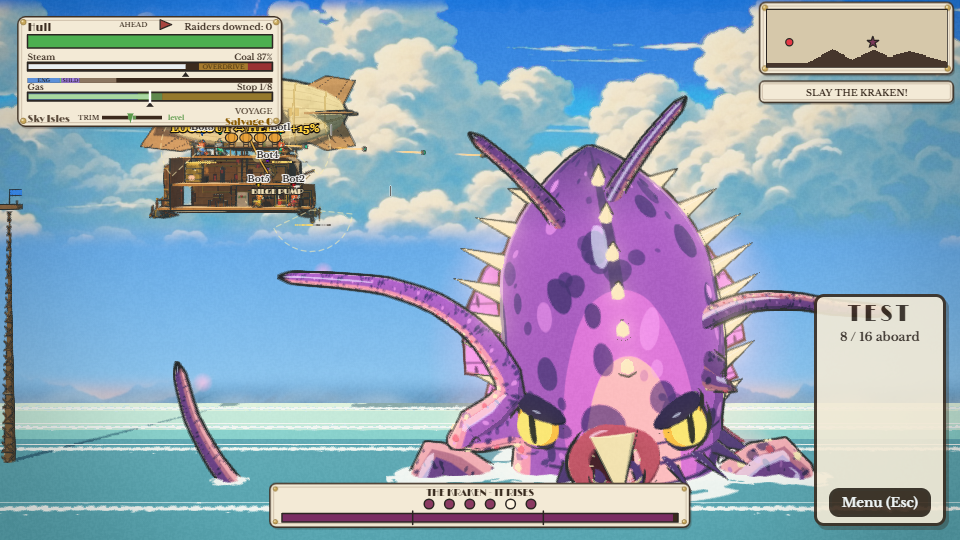
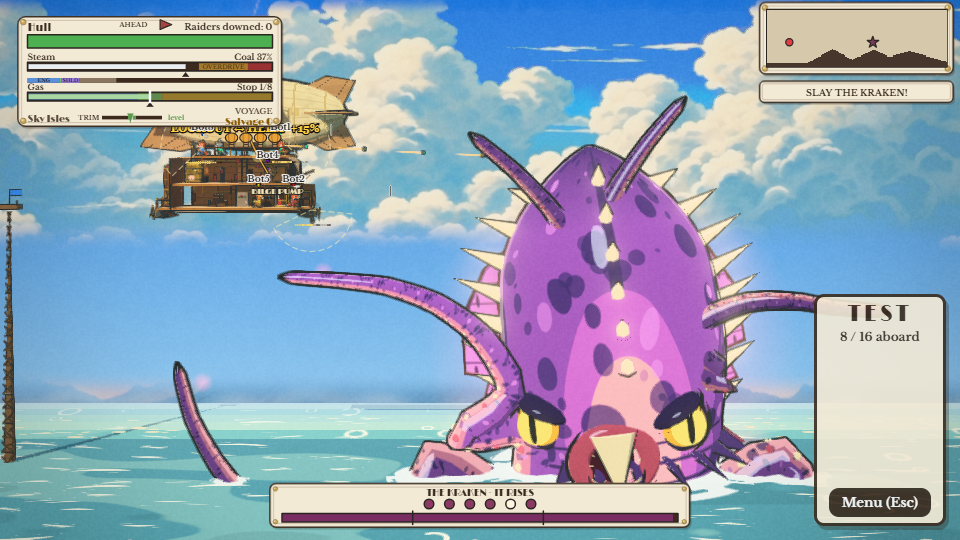
A2: water v2 - stamped foam arcs and rings from a sea-foam atlas (own direction and speed, screen-constant ink edge), two-tone crest, sun glitter stipple, stepped horizon haze into the painted sky; kraken and storm fixtures re-captured

diff --git a/public/modules/view3d/water.js b/public/modules/view3d/water.js
@@ -2,53 +2,144 @@
 //   - one big plane at the sea level (it is opaque, so it is also what hides the Kraken's segments below the water line, like the old slab did);
 //   - TWO colour steps by depth: beyond a world-fixed line (z = -split) the water is the lighter shallow colour, nearer it is the deep one;
 //   - a cheap fake REFLECTION (Medium and High): the mirrored sky gradient, painted in steps (zenith colour near, horizon colour toward the far edge, a mist band at the edge);
-//   - FOAM as stepped bands: lanes lying on the water, world-fixed in z, each a strip of the trim sheet's foam row (scalloped, alpha cut in two steps) sliding along x at a CONSTANT speed per lane
-//     (a linear scroll of the texture coordinate: no sine, no vertex waves, the plane is flat);
+//   - A2 (Wind Waker sea): STAMPED FOAM, not lanes: two hashed grids of world cells, each cell holding (config.LOOK3D.<env>.water.density) one arc, ring, dash pair or broken ring from the trim sheet's
+//     sea-foam atlas row, sliding along its OWN direction at its own constant speed (never on a straight lane), growing and shrinking away in steps, with a thin ink edge of a constant screen width;
+//     a TWO-TONE CREST (a static value-noise texture, thresholded into lighter patches and, near the viewer, darker ones, sliding at one constant slow speed); a stepped sun GLITTER stipple in the far
+//     third; a stepped HORIZON HAZE that melts the sea into the painted sky's horizon colour (no hard line). All in this one shader: no sine, no vertex waves, the plane is flat, nothing extra is drawn;
 //   - a SHORELINE ring: where the rock meets the water (the map's solid rows at the sea level) a pale shallow band and a foam ribbon hug the rock's foot;
 //   - SPLASH hooks for the VFX pass (WP4): water.splashAt(x, y, size [, z]) puts a ring decal on the surface (two rings growing at a constant speed, faded in steps at 8 per second).
-// The surface is lit like the other toon things (the Kraken's shadow falls on it); the foam is painted (unlit, dimmed with the darkness). Water is exempt from the rim light.
-import { THREE, gradientMap, look } from './style.js';
-import { getTrimSheet, uvRect } from './textures.js';
+// The surface is lit like the other toon things (the Kraken's and the ship's shadows fall on it, foam included); the haze and the glitter are painted (unlit). Water is exempt from the rim light.
+import { THREE, gradientMap, look, fx } from './style.js';
+import { getTrimSheet, uvRect, TRIM, SEA_FOAM } from './textures.js';
 import { config } from '../../config.js';
 import { Z_FRONT_OPEN, Z_FRONT_CAVE } from './terrain.js';
 
 const Z_FAR = -1500; // where the water ends in the distance (the horizon: the same place the old slab ended)
 const SPLIT = 520; // the colour step: farther than this behind the ship plane = shallow
-const LANE = 520; // foam lane width (world z)
 const MAX_SPLASH = 24, SPLASH_LIFE = 1.0;
+// A2: the stamps (the foam atlas row of textures.js): the world size of one cell's box at scale 1 (the cell's texels times a scale), and the cell's size in texels
+const STAMP_SCALE = { seaFoam0: 0.7, seaFoam1: 1.8, seaFoam2: 0.8, seaFoam3: 1.8 };
 
 const FRAG_HEAD = `
   varying vec3 vWPos;
-  uniform float uTime, uSplit, uZFar, uSpeed, uLevel, uRefl, uLane;
-  uniform vec3 uDeep, uShallow, uFoamCol, uSkyTop, uHor, uShoreTint;
-  uniform sampler2D uFoamTex; uniform vec4 uFoamRect;
+  uniform float uTime, uSplit, uZFar, uSpeed, uLevel, uRefl, uDens, uCrestAmt, uDarkAmt, uGlit, uHazeAmt, uInkPx;
+  uniform vec3 uDeep, uShallow, uFoamCol, uSkyTop, uHor, uShoreTint, uInk, uCrest, uGlitCol, uHazeCol;
+  uniform float uUntone, uExposure;
+  vec3 untoneNeutral( vec3 c ) { float x = min( c.r, min( c.g, c.b ) ); float xp = x >= 0.04 ? x + 0.04 : ( 1.0 - sqrt( max( 0.0, 1.0 - 25.0 * x ) ) ) / 12.5; return ( c + ( xp - x ) ) / max( uExposure, 0.0001 ); } // (as style.js paintedPlane: the haze is painted like the sky it melts into)
+  uniform sampler2D uFoamTex, uNoiseTex; uniform vec4 uFoamRect;
+  uniform vec4 uSF[4]; // the stamp cells in the atlas: u0 v0 u1 v1
+  uniform vec4 uSFB[4]; // xy = the cell's box in world units (scale 1), zw = the cell in texels
   float h11( float p ) { p = fract( p * 0.1031 ); p *= p + 33.33; p *= p + p; return fract( p ); }
+  // ONE grid of foam stamps, fixed to the world. Every cell holds (with chance uDens) one stamp: an arc, a ring, a pair of dashes or a broken ring, that slides along its own direction at its own
+  // CONSTANT speed (a linear function of time, wrapping inside its own cell), grows in two steps, and shrinks away in two steps before it wraps. Returns ( fill, ink line ). The atlas alpha is a ramp
+  // (0.5 on the shape's edge), so the fill is alpha > threshold and the ink is the thin band just under it, about uInkPx screen pixels wide at any distance.
+  vec2 seaStamp( vec2 wp, vec2 gdx, vec2 gdy, vec2 cs, float seed, vec2 scl, float hz ) {
+    vec2 id = floor( wp / cs );
+    float n = id.x * 53.0 + id.y * 197.0 + seed;
+    if ( h11( n ) > uDens ) return vec2( 0.0 );
+    float h1 = h11( n + 11.3 ), h2 = h11( n + 23.7 ), h3 = h11( n + 37.1 ), h4 = h11( n + 51.9 ), h5 = h11( n + 67.3 );
+    float hk = scl.x < 0.8 ? pow( h1, 1.6 ) : h1; // (the small grid holds fewer rings)
+    int k = hk < 0.42 ? 0 : ( hk < 0.68 ? 2 : ( hk < 0.83 ? 1 : 3 ) );
+    vec4 R = uSF[ k ], B = uSFB[ k ];
+    vec2 box = B.xy * scl;
+    float travel = cs.x * 0.34, rate = uSpeed * ( 0.3 + 0.9 * h2 );
+    float ph = fract( h4 + uTime * rate / travel );
+    vec2 dir = normalize( vec2( ( h3 < 0.5 ? -1.0 : 1.0 ) * ( 0.75 + 0.25 * h5 ), ( h5 - 0.5 ) * 0.8 ) );
+    vec2 ctr = ( id + 0.5 + ( vec2( h2, h5 ) - 0.5 ) * 0.1 ) * cs + dir * ( ph - 0.5 ) * travel;
+    float ang = ( k == 0 || k == 2 ) ? ( h4 - 0.5 ) * 0.36 : 0.0;
+    float ca = cos( ang ), sa = sin( ang );
+    mat2 M = mat2( ca, -sa, sa, ca );
+    vec2 fl = vec2( fract( h1 * 13.1 ) < 0.5 ? -1.0 : 1.0, fract( h3 * 17.7 ) < 0.5 ? -1.0 : 1.0 );
+    vec2 uv = ( M * ( wp - ctr ) * fl ) / box + 0.5;
+    if ( uv.x < 0.0 || uv.x > 1.0 || uv.y < 0.0 || uv.y > 1.0 ) return vec2( 0.0 );
+    vec2 sz = vec2( R.z - R.x, R.w - R.y );
+    vec2 cgx = ( M * gdx * fl ) / box, cgy = ( M * gdy * fl ) / box; // (the cell's uv per pixel)
+    float a = textureGrad( uFoamTex, vec2( mix( R.x, R.z, uv.x ), mix( R.y, R.w, uv.y ) ), cgx * sz, cgy * sz ).a;
+    float e = min( ph, 1.0 - ph ) * 2.0; // 0 at both ends of the slide, 1 in the middle: the stamp grows in two steps and shrinks in two steps (the threshold rises, so the shape thins away)
+    float th = 0.5 + 0.8 * ( 1.0 - step( 0.1, e ) ) + 0.17 * ( 1.0 - step( 0.28, e ) ) + 0.12 * step( 0.78, hz ) + 0.12 * step( 0.9, hz );
+    float tp = max( length( cgx * B.zw ), length( cgy * B.zw ) ); // texels per screen pixel
+    float aw = max( 0.5 * tp / ( 24.0 + tp ), 0.015 ); // about one screen pixel in alpha units: the edges are anti-aliased
+    float kk = clamp( uInkPx * tp / ( 24.0 + tp ), 0.03, 0.4 );
+    float inkOn = 1.0 - smoothstep( 2.5, 6.0, tp ); // the ink thins out far away (a distant dash is just white)
+    return vec2( smoothstep( th - aw, th + aw, a ), smoothstep( th - kk - aw, th - kk + aw, a ) * inkOn ); // (the second value covers the fill too: the fill is drawn over it)
+  }
+  // the sun glitter: short pale dashes in a stipple, static in the world, all sliding at one constant slow speed; densest in a band in the far third
+  float seaGlit( vec2 wp, float hz, float nz ) {
+    vec2 cs = vec2( 120.0, 60.0 );
+    vec2 p = vec2( wp.x - uTime * 5.0, wp.y );
+    vec2 id = floor( p / cs ), f = ( p / cs - id - 0.5 ) * cs;
+    float n = id.x * 61.0 + id.y * 173.0 + 5.0;
+    float dens = floor( clamp( 1.0 - abs( hz - 0.5 ) / 0.3, 0.0, 1.0 ) * 3.0 ) / 3.0 * uGlit * smoothstep( 0.35, 0.5, nz );
+    if ( h11( n ) > dens ) return 0.0;
+    float len = 20.0 + 30.0 * h11( n + 7.0 );
+    vec2 j = ( vec2( h11( n + 3.0 ), h11( n + 9.0 ) ) - 0.5 ) * vec2( cs.x - 2.0 * len - 6.0, cs.y - 34.0 );
+    vec2 q = abs( f - j );
+    return step( q.x, len ) * step( q.y, 16.0 );
+  }
 `;
 const FRAG_COLOR = `
   float wZf = -vWPos.z;
   float wDepth = step( uSplit, wZf );
   vec3 wCol = mix( uDeep, uShallow, wDepth );
   float wHz = clamp( wZf / uZFar, 0.0, 1.0 );
-  float wMir = step( 0.5, wHz ) * 0.22 + step( 0.84, wHz ) * 0.3;
+  float wMir = step( 0.5, wHz ) * 0.22;
   wCol = mix( wCol, mix( uSkyTop, uHor, step( 0.5, wHz ) ), uRefl * ( 0.12 + wMir ) );
+  // the two-tone crest: a static value-noise texture (R = the light patches, G = the dark ones), fixed to the world, all sliding at one constant slow speed. The edges are cut hard (two flat
+  // tones) but anti-aliased by the noise's own screen derivative, so nothing crawls when the camera moves.
+  vec2 wNP = vec2( ( vWPos.x - uTime * uSpeed * 0.3 ) / 9000.0, vWPos.z / 3600.0 );
+  vec2 wN = texture2D( uNoiseTex, wNP ).rg;
+  float wNa = max( fwidth( wN.x ) * 0.9, 0.012 ), wNb = max( fwidth( wN.y ) * 0.9, 0.012 );
+  float wLight = smoothstep( 0.6 - wNa, 0.6 + wNa, wN.x ) * ( 1.0 - step( 0.9, wHz ) );
+  float wDark = smoothstep( 0.6 - wNb, 0.6 + wNb, wN.y ) * smoothstep( 250.0, 420.0, vWPos.z ) * ( 1.0 - wHz );
+  wCol = mix( wCol, uCrest, wLight * uCrestAmt );
+  wCol *= 1.0 - wDark * uDarkAmt;
+  // the horizon haze: three or four flat steps toward the sky's horizon colour (the sea no longer ends on a hard line)
+  float wHk = uHazeAmt * ( 0.16 * step( 0.64, wHz ) + 0.2 * step( 0.76, wHz ) + 0.24 * step( 0.88, wHz ) + 0.25 * step( 0.95, wHz ) );
+  // the foam stamps: a big grid and a small one, each in the sea's own grid of world cells; far stamps are stretched in z (the sea is foreshortened there) so they keep their look
+  vec2 wGdx = dFdx( vWPos.xz ), wGdy = dFdy( vWPos.xz );
+  vec2 wScl = vec2( 1.0, 1.0 + 0.4 * wHz );
+  vec2 wSA = seaStamp( vWPos.xz, wGdx, wGdy, vec2( 700.0, 270.0 ), 3.0, wScl, wHz );
+  vec2 wSB = seaStamp( vWPos.xz, wGdx, wGdy, vec2( 440.0, 230.0 ), 91.0, wScl * 0.55, wHz );
+  float wFoam = max( wSA.x, wSB.x ) * ( 1.0 - wHk );
+  float wInk = max( wSA.y, wSB.y ) * ( 1.0 - wHk );
+  wCol = mix( wCol, uInk, wInk );
+  wCol = mix( wCol, uFoamCol, wFoam );
   diffuseColor.rgb = wCol;
-  // foam lanes: lane = a strip of the foam row, sliding at a constant speed (linear in time)
-  float wLi = floor( vWPos.z / uLane ), wLf = vWPos.z / uLane - wLi;
-  float wSeed = h11( wLi + 17.0 );
-  float wV = ( wLf - ( 0.1 + 0.25 * wSeed ) ) / 0.42;
-  float wU = ( vWPos.x - uTime * uSpeed * ( 0.55 + 0.9 * h11( wLi + 3.0 ) ) ) / 4096.0 + wSeed * 7.0;
-  vec2 wRaw = vec2( wU, wV );
-  vec2 wGx = dFdx( wRaw ) * vec2( uFoamRect.z - uFoamRect.x, uFoamRect.y - uFoamRect.w ), wGy = dFdy( wRaw ) * vec2( uFoamRect.z - uFoamRect.x, uFoamRect.y - uFoamRect.w );
-  vec2 wUv = vec2( mix( uFoamRect.x, uFoamRect.z, fract( wU ) ), mix( uFoamRect.w, uFoamRect.y, clamp( wV, 0.03, 0.97 ) ) );
-  float wA = textureGrad( uFoamTex, wUv, wGx, wGy ).a;
-  float wOn = step( 0.0, wV ) * step( wV, 1.0 ) * step( 0.28, wSeed ) * step( wZf, uZFar - 80.0 );
-  float wFoam = step( 0.55, wA ) * wOn, wFoam2 = ( step( 0.16, wA ) - step( 0.55, wA ) ) * wOn;
+  float wGl = seaGlit( vWPos.xz, wHz, wN.x ) * ( 1.0 - wHk );
+  vec3 wHc = mix( uHazeCol, mix( uHor, uHazeCol, 0.5 ), step( 0.88, wHz ) ); // (the paler steps first, the sky's own horizon colour at the very end)
 `;
 const FRAG_TAIL = `
-  outgoingLight = mix( outgoingLight, uShoreTint * ( 0.55 + 0.45 * uLevel ), wFoam2 * 0.8 );
-  outgoingLight = mix( outgoingLight, uFoamCol * uLevel, wFoam );
+  outgoingLight = mix( outgoingLight, uGlitCol * uLevel, wGl );
+  outgoingLight = mix( outgoingLight, mix( wHc, untoneNeutral( wHc ), uUntone ), wHk ); // (the haze is painted, unlit, like the sky behind it)
   #include <opaque_fragment>
 `;
+
+// A2: the crest pattern's texture. 128 x 128, tiles, built once with a fixed seed (no Math.random): R and G are two independent smooth value-noise fields (a coarse lattice plus a finer one),
+// 0..1 around 0.5. The shader thresholds R for the light patches and G for the dark ones.
+function noiseTexture() {
+  const N = 128, d = new Uint8Array(N * N * 4);
+  const lattice = (L, seed) => { const g = new Float32Array(L * L); let s = seed >>> 0; for (let i = 0; i < g.length; i++) { s = (Math.imul(s, 1664525) + 1013904223) >>> 0; g[i] = s / 4294967296; } return g; };
+  const val = (g, L, x, y) => {
+    const xi = Math.floor(x), yi = Math.floor(y), fx = x - xi, fy = y - yi, sx = fx * fx * (3 - 2 * fx), sy = fy * fy * (3 - 2 * fy);
+    const x0 = ((xi % L) + L) % L, x1 = (x0 + 1) % L, y0 = ((yi % L) + L) % L, y1 = (y0 + 1) % L;
+    const a = g[y0 * L + x0], b = g[y0 * L + x1], c = g[y1 * L + x0], e = g[y1 * L + x1];
+    return a + (b - a) * sx + (c - a) * sy + (a - b - c + e) * sx * sy;
+  };
+  const fields = [[lattice(8, 7), lattice(16, 8)], [lattice(8, 21), lattice(16, 22)]];
+  for (let y = 0; y < N; y++) for (let x = 0; x < N; x++) {
+    for (let c = 0; c < 2; c++) {
+      const v = (val(fields[c][0], 8, (x / N) * 8, (y / N) * 8) * 0.68 + val(fields[c][1], 16, (x / N) * 16, (y / N) * 16) * 0.32);
+      d[(y * N + x) * 4 + c] = Math.max(0, Math.min(255, Math.round(v * 255)));
+    }
+    d[(y * N + x) * 4 + 3] = 255;
+  }
+  const t = new THREE.DataTexture(d, N, N, THREE.RGBAFormat);
+  t.wrapS = t.wrapT = THREE.RepeatWrapping;
+  t.magFilter = THREE.LinearFilter; t.minFilter = THREE.LinearMipmapLinearFilter; t.generateMipmaps = true;
+  t.needsUpdate = true;
+  t.name = 'seaNoise';
+  return t;
+}
 
 export function createWater(scene) {
   const group = new THREE.Group();
@@ -57,12 +148,19 @@ export function createWater(scene) {
 
   const sheet = getTrimSheet();
   const fr = uvRect('foam', 1);
+  const sf = SEA_FOAM.map((n) => uvRect(n, 1)), sfB = SEA_FOAM.map((n) => new THREE.Vector4(TRIM[n].w * STAMP_SCALE[n], TRIM[n].h * STAMP_SCALE[n], TRIM[n].w, TRIM[n].h));
   const U = {
-    uTime: { value: 0 }, uSplit: { value: SPLIT }, uZFar: { value: -Z_FAR }, uSpeed: { value: 26 }, uLevel: { value: 1 }, uRefl: { value: 1 }, uLane: { value: LANE },
+    uTime: { value: 0 }, uSplit: { value: SPLIT }, uZFar: { value: -Z_FAR }, uSpeed: { value: 26 }, uLevel: { value: 1 }, uRefl: { value: 1 },
     uDeep: { value: new THREE.Color('#5b93a6') }, uShallow: { value: new THREE.Color('#80bcc4') }, uFoamCol: { value: new THREE.Color('#f4fbfa') }, uShoreTint: { value: new THREE.Color('#b6e0e2') },
     uSkyTop: { value: new THREE.Color('#4d93b8') }, uHor: { value: new THREE.Color('#e9f4ee') },
     uFoamTex: { value: sheet.texture }, uFoamRect: { value: new THREE.Vector4(fr.u0, fr.v0, fr.u1, fr.v1) },
+    // A2: the stamps, the crest tones, the glitter and the haze (setRig fills them from config.LOOK3D.<env>.water)
+    uSF: { value: sf.map((r) => new THREE.Vector4(r.u0, r.v0, r.u1, r.v1)) }, uSFB: { value: sfB }, uNoiseTex: { value: noiseTexture() },
+    uDens: { value: 0.7 }, uCrestAmt: { value: 0.34 }, uDarkAmt: { value: 0.14 }, uGlit: { value: 0.4 }, uHazeAmt: { value: 1 }, uInkPx: { value: 1.8 },
+    uInk: { value: new THREE.Color('#1d4756') }, uCrest: { value: new THREE.Color('#a4d3d4') }, uGlitCol: { value: new THREE.Color('#fff4cc') }, uHazeCol: { value: new THREE.Color('#73b3e9') },
+    uUntone: fx.uUntone, uExposure: fx.uExposure,
   };
+  const hazeBase = new THREE.Color('#73b3e9'), skyTint = new THREE.Color('#ffffff');
 
   // ---- the surface ----------------------------------------------------------------------------------------------------------------------------------------------------------
   const wMat = new THREE.MeshToonMaterial({ color: '#6f9fae', gradientMap });
@@ -208,10 +306,17 @@ export function createWater(scene) {
     const w = rig.water || {};
     U.uDeep.value.set(w.deep || '#5b93a6'); U.uShallow.value.set(w.shallow || '#80bcc4'); U.uFoamCol.value.set(w.foam || '#f4fbfa'); U.uSpeed.value = Number.isFinite(w.speed) ? w.speed : 26;
     U.uShoreTint.value.set(w.shallow || '#80bcc4').lerp(new THREE.Color('#ffffff'), 0.35);
+    const num = (v, d) => (Number.isFinite(v) ? v : d);
+    U.uDens.value = Math.max(0, Math.min(1, num(w.density, 0.7))); U.uCrestAmt.value = Math.max(0, Math.min(1, num(w.crestAmt, 0.34))); U.uDarkAmt.value = Math.max(0, Math.min(0.6, num(w.darkAmt, 0.14)));
+    U.uGlit.value = Math.max(0, Math.min(1, num(w.glitter, 0.4))); U.uHazeAmt.value = Math.max(0, Math.min(1, num(w.haze, 1))); U.uInkPx.value = Math.max(0.5, Math.min(4, num(w.inkPx, 1.8)));
+    U.uInk.value.set(w.ink || '#1d4756'); U.uCrest.value.set(w.crest || '#a4d3d4'); U.uGlitCol.value.set(w.glitterCol || '#fff4cc');
+    hazeBase.set(w.hazeCol || '#73b3e9'); U.uHazeCol.value.copy(hazeBase).multiply(skyTint);
     const E = (config.ENVIRONMENTS && config.ENVIRONMENTS[envId]) || {};
     const sky = Array.isArray(E.sky) ? E.sky : null, hex = (s, d) => (typeof s === 'string' ? (s[0] === '#' ? s : '#' + s) : d);
     U.uSkyTop.value.set(hex(sky && sky[0], '#4d93b8')); U.uHor.value.set(hex(sky && sky[sky.length - 1], '#e9f4ee'));
   };
+  // the time of day's tint of the painted sky (world.js setTod): the haze that melts the sea into that sky takes it too
+  T.setSkyTint = (c) => { try { skyTint.set(c || '#ffffff'); U.uHazeCol.value.copy(hazeBase).multiply(skyTint); } catch { /* (a bad colour: the tint stays) */ } };
   T.setLevel = (night) => { U.uLevel.value = 1 - 0.7 * Math.max(0, Math.min(1, night)); }; // (the painted foam dims in the dark)
   T.setTier = (tier) => { U.uRefl.value = tier && tier.name === 'low' ? 0 : 1; };
   // every frame. seaY = the sea level in the game's y (NaN = no sea). cam = the THREE camera.
@@ -231,6 +336,6 @@ export function createWater(scene) {
     sMat.uniforms.uY.value = y + 1.2;
     buildShore(map, seaY);
   };
-  T.dispose = () => { surface.geometry.dispose(); shore.geometry.dispose(); sGeo.dispose(); wMat.dispose(); shoreMat.dispose(); sMat.dispose(); };
+  T.dispose = () => { surface.geometry.dispose(); shore.geometry.dispose(); sGeo.dispose(); wMat.dispose(); shoreMat.dispose(); sMat.dispose(); U.uNoiseTex.value.dispose(); };
   return T;
 }

diff --git a/public/modules/view3d/textures.js b/public/modules/view3d/textures.js
@@ -6,7 +6,8 @@
 //   y    0.. 384  four plank strips, 2048 x 96 each: woodA woodB woodC (3 wood tones, boards of 150-330 px with streaks, knots, nails) and deck (3 sub-planks of 32 px with tar-black seams)
 //   y  384.. 640  canvas cells x6 (128x256: weave, seam lines and stitches on the four edges), 3 patch shapes (square, round, strip), brass (a highlight band across), riveted iron, rope (twisted), plain, tar
 //   y  640.. 768  strap (webbing) and lacing (eyelets and criss-cross cord), the H2 stencil
-//   y  768.. 896  (spare)
+//   y  768.. 896  A2: the sea's foam atlas (4 cells, 128 high: an arc 640 wide, a ring 384, a pair of dashes 640, a broken ring 384). White, with the ALPHA a soft ramp round each shape (0.5 on its
+//                 edge, 0 about 12 texels out, 1 about 12 in), so water.js can cut the fill, and a thin ink line just outside it, at any size, from one texture tap
 //   y  896..1280  rock strata x3 (2048 x 128): for WP3, modulators like the rest, they are tinted by vertex colour
 //   y 1280..1408  a foam band (2048 x 128, transparent between the scallops)
 //   y 1408..1664  a cloud disc atlas: 8 discs of 256 (transparent edges)
@@ -29,6 +30,7 @@ export const TRIM = {
   brass: { x: 1152, y: 384, w: 256, h: 256 }, iron: { x: 1408, y: 384, w: 256, h: 256 }, rope: { x: 1664, y: 384, w: 256, h: 256 },
   plain: { x: 1920, y: 384, w: 128, h: 128 }, tar: { x: 1920, y: 512, w: 128, h: 128 },
   strap: { x: 0, y: 640, w: 1024, h: 64 }, lacing: { x: 1024, y: 640, w: 1024, h: 64 }, stencilH2: { x: 0, y: 704, w: 512, h: 64 },
+  seaFoam0: { x: 0, y: 768, w: 640, h: 128 }, seaFoam1: { x: 640, y: 768, w: 384, h: 128 }, seaFoam2: { x: 1024, y: 768, w: 640, h: 128 }, seaFoam3: { x: 1664, y: 768, w: 384, h: 128 },
   rock0: row(896, 128), rock1: row(1024, 128), rock2: row(1152, 128), foam: row(1280, 128),
   cloud0: { x: 0, y: 1408, w: 256, h: 256 }, cloud1: { x: 256, y: 1408, w: 256, h: 256 }, cloud2: { x: 512, y: 1408, w: 256, h: 256 }, cloud3: { x: 768, y: 1408, w: 256, h: 256 },
   cloud4: { x: 1024, y: 1408, w: 256, h: 256 }, cloud5: { x: 1280, y: 1408, w: 256, h: 256 }, cloud6: { x: 1536, y: 1408, w: 256, h: 256 }, cloud7: { x: 1792, y: 1408, w: 256, h: 256 },
@@ -42,6 +44,7 @@ export const FIRE_FRAMES = ['fire0', 'fire1', 'fire2', 'fire3'];
 export const CLOUD_DISCS = ['cloud0', 'cloud1', 'cloud2', 'cloud3', 'cloud4', 'cloud5', 'cloud6', 'cloud7'];
 export const SCORCH = ['scorch0', 'scorch1', 'scorch2'];
 export const HOLES = ['hole0', 'hole1', 'hole2', 'hole3'];
+export const SEA_FOAM = ['seaFoam0', 'seaFoam1', 'seaFoam2', 'seaFoam3'];
 export const ROCK_STRATA = ['rock0', 'rock1', 'rock2'];
 
 // ---- UV helpers (flipY canvas texture: canvas y down -> v up) -------------------------------------------------------------------------------------------------------------------------
@@ -263,6 +266,49 @@ function paintFoam(g) {
   for (let i = 0; i < 60; i++) { g.fillStyle = rgba(250, 253, 253, 0.9); g.beginPath(); g.arc(r.x + R(0, r.w), r.y + R(8, r.h - 8), R(2, 6), 0, 7); g.fill(); }
 }
 
+// A2: the sea's foam stamps. Each shape is drawn as a flat mask, blurred (three box passes, radius 5) and written as white with the blurred mask in the alpha: a soft ramp that is 0.5 where the shape's edge was.
+function paintSeaFoam(g) {
+  const draw = {
+    seaFoam0(c, w) { // a long arc: a smile that tapers to both ends
+      const pts = [];
+      for (let i = 0; i <= 40; i++) { const q = i / 40, u = 2 * q - 1, cy = 46 + 34 * (1 - u * u), wd = 40 * Math.pow(Math.sin(Math.PI * q), 0.7) + 2; pts.push([44 + (w - 88) * q, cy, wd]); }
+      c.beginPath();
+      c.moveTo(pts[0][0], pts[0][1] - pts[0][2] / 2);
+      for (const [x, y, wd] of pts) c.lineTo(x, y - wd / 2);
+      for (let i = pts.length - 1; i >= 0; i--) c.lineTo(pts[i][0], pts[i][1] + pts[i][2] / 2);
+      c.closePath(); c.fill();
+    },
+    seaFoam1(c, w, h) { // a ring (round: the box is wider than the ring so the world box can be squat)
+      c.beginPath(); c.arc(w / 2, h / 2, 46, 0, Math.PI * 2); c.arc(w / 2, h / 2, 29, 0, Math.PI * 2, true); c.fill('evenodd');
+    },
+    seaFoam2(c) { // two dashes, a long one over a shorter one, each a pointed lens, and a tick
+      const lens = (x0, x1, y, wd) => { c.beginPath(); c.moveTo(x0, y); c.quadraticCurveTo((x0 + x1) / 2, y - wd, x1, y); c.quadraticCurveTo((x0 + x1) / 2, y + wd, x0, y); c.closePath(); c.fill(); };
+      lens(60, 430, 46, 17); lens(250, 570, 86, 15); lens(470, 540, 38, 8);
+    },
+    seaFoam3(c, w, h) { // a broken ring: three quarters of a circle with round ends
+      c.lineCap = 'round'; c.lineWidth = 16; c.beginPath(); c.arc(w / 2, h / 2, 37, 0.5, 0.5 + Math.PI * 1.55); c.stroke();
+    },
+  };
+  const boxBlur = (a, w, h, r) => { // one separable box pass (running sums, clamped at the border)
+    const tmp = new Float32Array(a.length), k = 1 / (2 * r + 1);
+    for (let y = 0; y < h; y++) { let sum = 0; for (let x = -r; x <= r; x++) sum += a[y * w + Math.min(w - 1, Math.max(0, x))]; for (let x = 0; x < w; x++) { tmp[y * w + x] = sum * k; sum += a[y * w + Math.min(w - 1, x + r + 1)] - a[y * w + Math.max(0, x - r)]; } }
+    for (let x = 0; x < w; x++) { let sum = 0; for (let y = -r; y <= r; y++) sum += tmp[Math.min(h - 1, Math.max(0, y)) * w + x]; for (let y = 0; y < h; y++) { a[y * w + x] = sum * k; sum += tmp[Math.min(h - 1, y + r + 1) * w + x] - tmp[Math.max(0, y - r) * w + x]; } }
+  };
+  for (const name of SEA_FOAM) {
+    const r = TRIM[name], cv = document.createElement('canvas');
+    cv.width = r.w; cv.height = r.h;
+    const c = cv.getContext('2d');
+    c.fillStyle = '#fff'; c.strokeStyle = '#fff';
+    draw[name](c, r.w, r.h);
+    const src = c.getImageData(0, 0, r.w, r.h), m = new Float32Array(r.w * r.h);
+    for (let i = 0; i < m.length; i++) m[i] = src.data[i * 4 + 3] / 255;
+    for (let p = 0; p < 3; p++) boxBlur(m, r.w, r.h, 5);
+    const out = g.createImageData(r.w, r.h);
+    for (let i = 0; i < m.length; i++) { out.data[i * 4] = out.data[i * 4 + 1] = out.data[i * 4 + 2] = 255; out.data[i * 4 + 3] = Math.max(0, Math.min(255, Math.round(m[i] * 255))); }
+    g.putImageData(out, r.x, r.y);
+  }
+}
+
 function paintClouds(g) {
   CLOUD_DISCS.forEach((name, i) => {
     const r = TRIM[name], rnd = mulberry(300 + i), R = (a, b) => a + (b - a) * rnd();
@@ -353,7 +399,7 @@ export function getTrimSheet() {
     paintPlanks(g, 'deck', { seed: 4, tone: [240, 226, 196], vary: 7, seam: rgba(34, 26, 22, 0.78), seamW: 2.6, buttW: 2.2, subs: 3, minLen: 130, maxLen: 300, knots: 0.12 });
     CANVAS_CELLS.forEach((n, i) => paintCanvasCell(g, n, 50 + i * 7));
     paintPatches(g); paintBrass(g); paintIron(g); paintRope(g); paintSmall(g); paintStrapAndLacing(g);
-    paintRock(g); paintFoam(g); paintClouds(g); paintFire(g); paintSmokeScorchHoles(g);
+    paintRock(g); paintFoam(g); paintSeaFoam(g); paintClouds(g); paintFire(g); paintSmokeScorchHoles(g);
     // the slight grain
     const nc = document.createElement('canvas');
     nc.width = nc.height = 128;

diff --git a/public/config.js b/public/config.js
@@ -2351,7 +2351,7 @@ export const config = {
     frost: { dark: { cave: 0.66, hemi: 1.0, sky: '#3a5488', ground: '#1a2438', key: 0.04 }, cap: { color: '#f2f7ff', amount: 1 }, clouds: { n: 10, front: 2, alpha: 0.42, tint: '#f4f8ff' }, exposure: 1.1, key: { color: '#fff6e6', strength: 0.95, shadows: true }, hemi: { sky: '#e6f0fa', ground: '#9fb0c4', strength: 1.05 }, hazeAmt: 0.07, grade: { shadow: '#4a64a8', shadowAmt: 0.16, high: '#fff4e0', highAmt: 0.06, sat: 0.96, contrast: 0.08, lift: 0.01 }, bloom: 0.5, vignette: 0.15, rim: { color: '#e8f2ff', amount: 0.22 } },
     ember: { beam: { color: '#ffe0b8', alpha: 0.4 }, dark: { cave: 0.62, hemi: 1.0, sky: '#6a3038', ground: '#2a1014', key: 0.04, floor: 0.16 }, cap: { color: '#6b5a58', amount: 0.7 }, clouds: { n: 8, front: 1, alpha: 0.4, tint: '#a8685a' }, exposure: 1.15, key: { color: '#ff9a50', strength: 0.9, dir: [-0.35, -0.8, 0.6], shadows: false }, hemi: { sky: '#8a5c58', ground: '#c4642c', strength: 1.1 }, hazeAmt: 0.09, grade: { shadow: '#3a1c3c', shadowAmt: 0.2, high: '#ffb070', highAmt: 0.14, sat: 0.98, contrast: 0.14, lift: 0.0 }, bloom: 0.7, vignette: 0.22, rim: { color: '#ff9a50', amount: 0.24 } },
     storm: { beam: { color: '#eef4ff', alpha: 0.42 }, dark: { cave: 0.72, hemi: 1.0, sky: '#3c4c80', ground: '#141a30', key: 0, floor: 0.16 }, cap: { color: '#4a6a5a', amount: 0.7 }, clouds: { n: 12, front: 2, alpha: 0.4, tint: '#98a0bc' }, exposure: 1.1, key: { strength: 0 }, hemi: { sky: '#7f8db2', ground: '#3a4668', strength: 2.1 }, hazeAmt: 0.1, grade: { shadow: '#242c5a', shadowAmt: 0.2, high: '#c4d4ff', highAmt: 0.08, sat: 0.9, contrast: 0.14, lift: 0.0 }, bloom: 0.65, vignette: 0.24, rim: { color: '#b8cdf5', amount: 0.22 } },
-    sea: { dark: { cave: 0.68, hemi: 1.0, sky: '#2c5a78', ground: '#10222e', key: 0.04 }, cap: { color: '#a8c0a0', amount: 0.8 }, clouds: { n: 12, front: 2, alpha: 0.42, tint: '#fff4e0' }, water: { deep: '#5b93a6', shallow: '#80bcc4', foam: '#f4fbfa', speed: 26 }, exposure: 1.15, key: { color: '#fff3d4', strength: 1, shadows: true }, hemi: { sky: '#e3f3f2', ground: '#7fa6a6', strength: 1 }, hazeAmt: 0.06, grade: { shadow: '#2c6a86', shadowAmt: 0.16, high: '#fff0c8', highAmt: 0.1, sat: 1.06, contrast: 0.1, lift: 0.01 }, bloom: 0.55, vignette: 0.16, rim: { color: '#fff0c8', amount: 0.22 } },
+    sea: { dark: { cave: 0.68, hemi: 1.0, sky: '#2c5a78', ground: '#10222e', key: 0.04 }, cap: { color: '#a8c0a0', amount: 0.8 }, clouds: { n: 12, front: 2, alpha: 0.42, tint: '#fff4e0' }, water: { deep: '#5b93a6', shallow: '#80bcc4', foam: '#f4fbfa', speed: 26, density: 0.7, crest: '#a4d3d4', crestAmt: 0.34, darkAmt: 0.14, glitter: 0.4, glitterCol: '#fff4cc', ink: '#1d4756', haze: 1, hazeCol: '#73b3e9', inkPx: 1.8 }, exposure: 1.15, key: { color: '#fff3d4', strength: 1, shadows: true }, hemi: { sky: '#e3f3f2', ground: '#7fa6a6', strength: 1 }, hazeAmt: 0.06, grade: { shadow: '#2c6a86', shadowAmt: 0.16, high: '#fff0c8', highAmt: 0.1, sat: 1.06, contrast: 0.1, lift: 0.01 }, bloom: 0.55, vignette: 0.16, rim: { color: '#fff0c8', amount: 0.22 } },
     fungal: { beam: { color: '#e4ffec', light: 1.1 }, dark: { cave: 0.8, hemi: 1.4, sky: '#5a3ab0', ground: '#0e5a54', key: 0, floor: 0.22 }, cap: { color: '#46dcb4', amount: 0.85 }, clouds: { n: 4, front: 1, alpha: 0.35, tint: '#a98af0' }, exposure: 1.1, key: { strength: 0 }, hemi: { sky: '#6f58b0', ground: '#1b6a62', strength: 2.8 }, hazeAmt: 0.12, grade: { shadow: '#2a1856', shadowAmt: 0.24, high: '#8affd8', highAmt: 0.1, sat: 1.1, contrast: 0.14, lift: 0.0 }, bloom: 0.8, vignette: 0.26, rim: { color: '#7affd0', amount: 0.26 } },
     aether: { beam: { color: '#efe6ff' }, dark: { cave: 0.72, hemi: 1.0, sky: '#4a3a9a', ground: '#1a1244', key: 0.04 }, cap: { color: '#b8a8ff', amount: 0.8 }, clouds: { n: 8, front: 1, alpha: 0.4, tint: '#c4b0ff' }, exposure: 1.1, key: { color: '#c8b4ff', strength: 0.8, shadows: true }, hemi: { sky: '#6a58b8', ground: '#2a2058', strength: 1.6 }, hazeAmt: 0.1, grade: { shadow: '#2a1c68', shadowAmt: 0.22, high: '#d8c8ff', highAmt: 0.1, sat: 1.04, contrast: 0.14, lift: 0.0 }, bloom: 0.75, vignette: 0.24, rim: { color: '#d2c4ff', amount: 0.22 } },
     GRAIN: 0.022, // the paper grain (a fixed picture: never animated), 0 = off

diff --git a/public/modules/view3d/world.js b/public/modules/view3d/world.js
@@ -1,5 +1,5 @@
 // The stage: the sky and backdrop (sky.js: painted, unlit), the clouds (clouds.js: instanced billboards), the lights and fog (lights.js: one rig per environment), and the Sunken Sea's flat toon
-// water (water.js: two colour steps, a fake mirror, constant-speed foam lanes, a shore ring, splash rings). All fixed to the world (nothing shimmers with the camera). This file ties them
+// water (water.js: two colour steps, a fake mirror, stamped foam, a two-tone crest, glitter and a horizon haze, a shore ring, splash rings). All fixed to the world (nothing shimmers with the camera). This file ties them
 // together behind one small API for index.js.
 import { THREE } from './style.js';
 import { createLights, TOD } from './lights.js';
@@ -25,6 +25,7 @@ export function createWorld(scene, renderer) {
     W.tod = name; W.todCfg = c; W.night = c.night;
     sky.setColors(c, name);
     clouds.setSky(c.sky);
+    water.setSkyTint(c.sky);
     W.applyLights();
   };
   // The effective darkness (the game's darkness, or a cave's own floor; lights.js) drives the lamps (night) and the picture glows (gloom).

diff --git a/public/modules/view3d/lights.js b/public/modules/view3d/lights.js
@@ -42,7 +42,7 @@ export function rigFor(envId) {
     dark: { cave: 0.66, hemi: 0.34, sky: '#34447a', ground: '#141a2c', key: 0.1, from: 0.12, to: 0.72, ...(L3.dark || {}) },
     cap: { color: '#8fa65e', amount: 0.9, ...(L3.cap || {}) }, // (terrain.js: the moss / snow on top of the rock)
     clouds: { n: 14, front: 3, alpha: 0.95, tint: '#ffffff', ...(L3.clouds || {}) }, // (clouds.js)
-    water: { deep: '#5b93a6', shallow: '#80bcc4', foam: '#f4fbfa', speed: 26, ...(L3.water || {}) }, // (water.js)
+    water: { deep: '#5b93a6', shallow: '#80bcc4', foam: '#f4fbfa', speed: 26, density: 0.7, crest: '#a4d3d4', crestAmt: 0.34, darkAmt: 0.14, glitter: 0.4, glitterCol: '#fff4cc', ink: '#1d4756', haze: 1, hazeCol: '#73b3e9', inkPx: 1.8, ...(L3.water || {}) }, // (water.js A2: density = share of foam cells that hold a stamp, crest = the lighter patch tone and its strength, darkAmt = the darker near-band patches, glitter = the sun-glitter strength, ink = the foam's edge line, haze = the horizon haze strength, inkPx = its screen width)
   };
 }
 

diff --git a/3D.md b/3D.md
@@ -540,5 +540,19 @@ The perf governor then starts at that level (High = 3, Medium = 1) and never cli
 
 **Gates.** `--check-botsim` 9/9 byte-identical, `--lint`, `--check-3d-lint`, `--check-enemy3d`, `cine3d-check`, `crew3d-check --quick`, `creature3d-check --quick`, `light3d-check --quick`, `--check-3d` (fixtures re-captured with `--snapshot-3d --force`), 0 console errors. `--check-physics` has the known "debris expires" wall-clock flake (it failed one or both debris checks on most runs here, and the commit before A1 failed three of its four runs the same way; both also passed ALL once).
 
+## 20. A2 notes: water v2 (built)
+**Files.** `view3d/water.js` (the shader), `view3d/textures.js` (the new foam atlas row `SEA_FOAM`, `paintSeaFoam`), `view3d/world.js` (one line: `water.setSkyTint(c.sky)`), `view3d/lights.js` + `config.LOOK3D.sea.water` (new keys). No simulation file is touched. Screenshots (outside the repo): `3d-screenshots/a2_before_*` and `a2_after_*` (sea in day, wide, dusk, rain, the Kraken's lair, a breach).
+
+1. **Stamped foam, no lanes.** The trim sheet's spare row (y 768..896) is now a 4-cell atlas: an arc (640 wide), a ring (384), a pair of dashes (640) and a broken ring (384), 128 high. Each shape is white with a soft ALPHA RAMP round it (0.5 on the shape's edge, about 12 texels either way, made by three box blurs at load, a few ms), so one texture tap gives both the fill (`alpha > threshold`) and a thin ink line just outside it (`alpha > threshold - k`, k from the texels-per-pixel, so the ink is `inkPx` = 1.8 screen pixels wide at any zoom: A1's screen-constant idea; it fades out beyond about 6 texels per pixel, where a far dash is just white). `seaStamp()` in the water shader: a hashed grid of WORLD cells (a big grid 700 x 270 and a small one 440 x 230 at 0.55 scale); a cell holds a stamp with chance `density` (0.7), a kind from its hash (arcs and dashes most, rings fewer, and fewer still in the small grid), a mirror and a slight tilt (arcs, dashes). Every stamp slides along its OWN direction (mostly sideways, a little in z) at its OWN constant speed (`water.speed` 26 x 0.3..1.2 world units a second), inside its own cell, wrapping; the cycle's two ends are hidden, and it grows in two steps and shrinks away in two steps (the alpha threshold rises, so the shape thins out). Far stamps are stretched in z up to 1.4x (the sea is foreshortened), and thin out beyond 78% and 90% of the distance. The foam is part of the surface's diffuse colour, so the ship's and the Kraken's shadows fall on it. The edges are anti-aliased by the texture's own gradient, so nothing crawls when the camera pans.
+2. **Two-tone crest.** A 128 x 128 tileable value-noise texture built once in code (fixed seed): R = the light patches (threshold 0.6, painted `crest` colour at `crestAmt` 0.34), G = the dark ones (the same threshold, `darkAmt` 14% darker, only in the near band, z beyond 250 toward the viewer). World-fixed, sliding at a constant 0.3 x `water.speed`; the cut is anti-aliased with the noise's own derivative.
+3. **Sun glitter.** `seaGlit()`: a stipple of short pale dashes (cells 120 x 60, one world-fixed grid, all sliding at 5 units a second), densest in a band around 50% of the distance (three stepped densities), broken up by the crest noise, `glitter` 0.4. Static pattern, no flicker. Painted, unlit.
+4. **Horizon haze.** Four flat steps (starting at 64%, 76%, 88% and 95% of the distance, 0.16 / 0.36 / 0.6 / 0.85 of `haze`) toward the painted sky's horizon colour (`hazeCol`, '#73b3e9' for the sea, multiplied by the time of day's sky tint, and un-tone-mapped like the painted planes, so it matches the sky behind it exactly in day and dusk). The first steps go through a paler mix first. The water no longer ends on a hard line: it melts into the sky colour. The foam, ink and glitter fade with the haze.
+5. **Kept.** The ship's shadow on the water, the shoreline ring (still the old `foam` row), `splashAt` rings (rain rings, keel spray, creature collars and wake, the breach shadow all sit on top as before), the opaque plane (it still hides what is below the sea line), the fake mirror (Medium and High), `?look=nowater`, the Low tier (no mirror, everything else on).
+6. **Config.** `config.LOOK3D.<env>.water` (sea; defaults in `lights.js`): `density`, `crest`, `crestAmt`, `darkAmt`, `glitter`, `glitterCol`, `ink`, `inkPx`, `haze`, `hazeCol` next to the old `deep`, `shallow`, `foam`, `speed`.
+
+**Perf (Medium, headless Chrome on this machine, the commit before vs now, same seeded sea scene, scene pass GPU ms median of 40 samples, three runs each):** before 3.28 / 3.37 / 3.04, after 3.42 / 3.45 / 2.94 (the difference is inside the run to run noise, at most +0.14 ms); draw calls 65 / 65 / 67 both; view JS 0.4-0.7 ms both. The water costs one texture tap for the noise and up to two for the stamps (a cell with no stamp skips its tap).
+
+**Gates.** `--check-botsim` byte-identical, `--lint`, `--check-3d-lint`, `weather3d-check` (sea, rescue), `creature3d-check --quick`, `light3d-check --quick`, `--check-3d` (the kraken and storm fixtures re-captured with `--snapshot-3d --force`), 0 console errors.
+
 ## Next: the art-director review
 Fable reviewed the finished 3D build: see **[ART_REVIEW_3D.md](ART_REVIEW_3D.md)** for the top 10 gaps and packages A1-A9.
